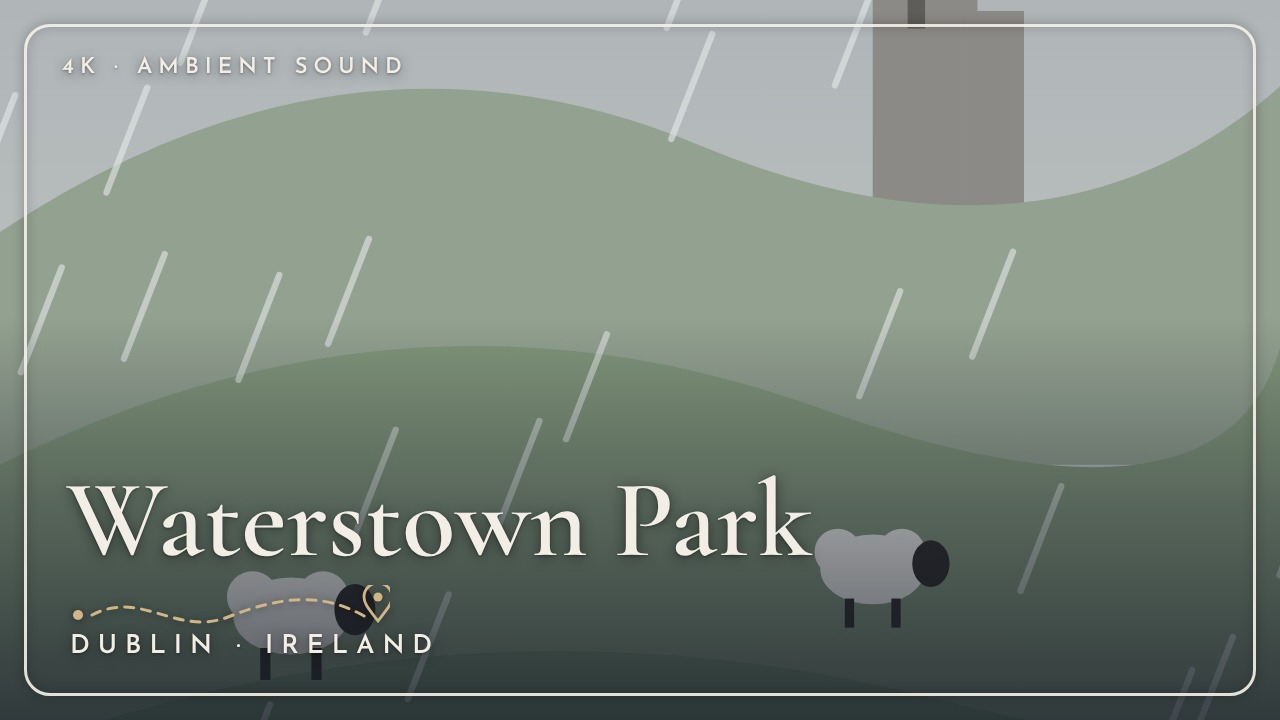
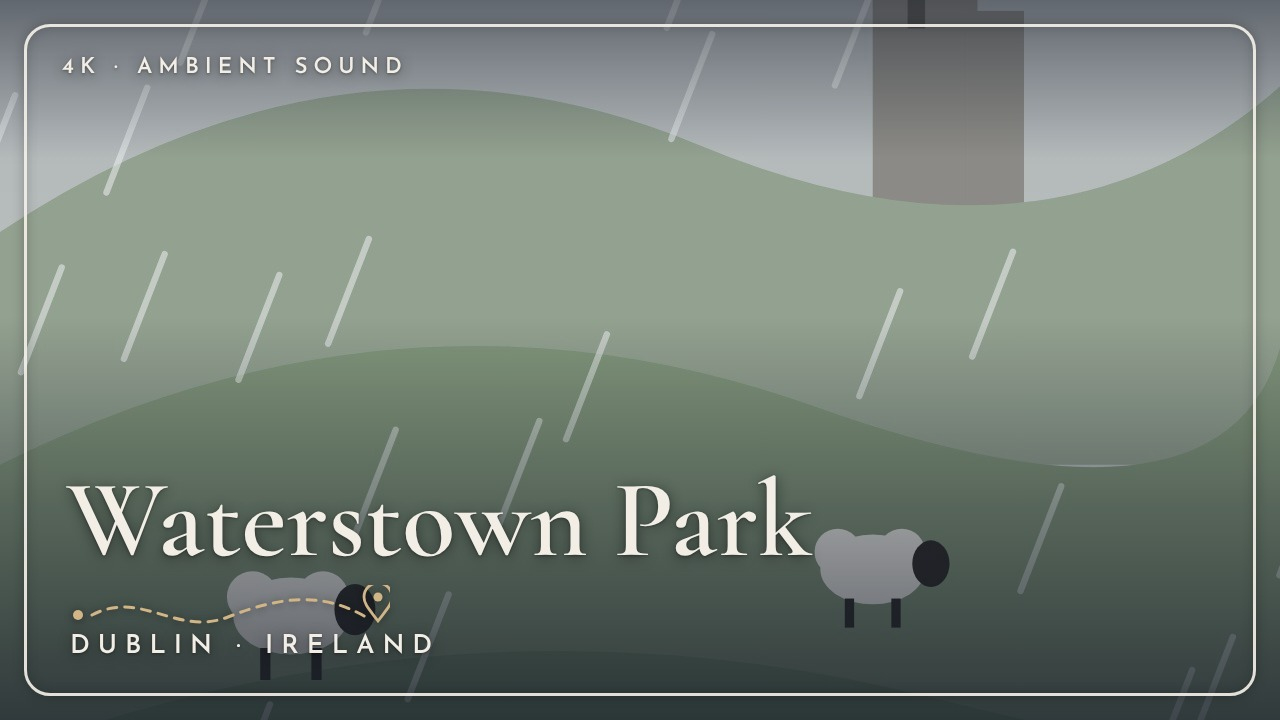
Elita: miniatura con degradado suave arriba para que la etiqueta se lea sobre cielos claros
Claude-Session: https://claude.ai/code/session_01QcE6ahXjMRX9nuFAhFcmJW

Changed region(s): [[0.0, 0.0, 1.0, 0.1528]]

diff --git a/elita-aventuras/scripts/miniatura.py b/elita-aventuras/scripts/miniatura.py
@@ -21,7 +21,7 @@ def html(foto=None,titulo='',lugar='',etiqueta='',texto=True):
 html,body{{margin:0;background:transparent}}
 #m{{position:relative;width:1280px;height:720px;overflow:hidden;font-family:CG}}
 #foto{{position:absolute;inset:0;background-size:cover;background-position:center}}
-#deg{{position:absolute;inset:0;background:linear-gradient(to top,rgba(20,26,38,.74) 0%,rgba(20,26,38,.38) 30%,rgba(20,26,38,0) 56%)}}
+#deg{{position:absolute;inset:0;background:linear-gradient(to bottom,rgba(20,26,38,.5) 0%,rgba(20,26,38,0) 22%),linear-gradient(to top,rgba(20,26,38,.74) 0%,rgba(20,26,38,.38) 30%,rgba(20,26,38,0) 56%)}}
 #marco{{position:absolute;inset:24px;border:3px solid rgba(242,238,230,.92);border-radius:26px;box-shadow:0 0 12px rgba(0,0,0,.25),inset 0 0 12px rgba(0,0,0,.18)}}
 #et{{position:absolute;left:62px;top:56px;font-family:JS;font-weight:600;font-size:22px;letter-spacing:6px;color:{CREMA};text-shadow:{SOMBRA}}}
 #tx{{position:absolute;left:66px;right:66px;bottom:60px;color:{CREMA}}}

diff --git a/elita-aventuras/CONTEXTO.md b/elita-aventuras/CONTEXTO.md
@@ -55,7 +55,7 @@ No elegida: "Elita-Logo-camino-v2" (curva más marcada y opción sin punto ni pi
 - ~~Marca de agua~~ **Elegida: "ADVENTURES" + camino punteado** (`entregables/Elita-Marca-de-agua/elegida-adventures-camino/`, cuadros completos transparentes 1080p y 4K, opacidad 80 % incluida: se arrastran a la pista de arriba en Premiere sin escalar). Encaja con la regla de no repetir "Elita" en todos lados. Las otras (Elita + camino, monograma) quedan como alternativas.
 - Opening: **aprobado en crema**; también va en noche para tomas de noche, lluvia o bosque. Final en 4K a 60 fps (`entregables/Elita-Video/4K-60fps/`). Ivan graba en 4K 60 con iPhone 15 y quizás pronto Osmo Pocket (la cámara lenta a 240 fps se interpreta en la secuencia de 60).
 - Closing (`video.py`, 24 s, un solo archivo para poner al final del video): frase de despedida "Thanks for walking with me." / "Gracias por caminar conmigo." + "— Elita" (0:00–0:04), y desde 0:04,2 la pantalla final de 20 s: "Elita" + camino + ADVENTURES y el círculo de suscripción a la izquierda; a la derecha 2 cuadros punteados con etiqueta PREVIOUS/NEXT (ANTERIOR/SIGUIENTE) para los videos anterior y siguiente, huecos de 680×383 en (1140,150) y (1140,620). `_guias.png` muestra dónde poner los elementos en YouTube Studio. (Se descartó el outro con el logo que se desarma.)
-- Marco de miniatura (`miniatura.py`, `entregables/Elita-Miniatura/`): 1280×720, foto de fondo, borde crema redondeado inset 24 px (como las ventanas del logo), degradado oscuro abajo, etiqueta arriba "4K · AMBIENT SOUND" / "4K · SONIDO AMBIENTE" (Josefin), título en Cormorant SemiBold crema (se achica solo y equilibra las líneas), camino punteado arena `#D2B587` con pin y lugar en Josefin mayúsculas espaciadas. Sombra suave en todo el texto. Sale en JPG (YouTube acepta hasta 2 MB). Sin "Elita" en la miniatura (regla de no repetir el nombre).
+- Marco de miniatura (`miniatura.py`, `entregables/Elita-Miniatura/`): 1280×720, foto de fondo, borde crema redondeado inset 24 px (como las ventanas del logo), degradado oscuro abajo (y uno suave arriba para la etiqueta; probado con una foto real de un parque con cielo claro), etiqueta arriba "4K · AMBIENT SOUND" / "4K · SONIDO AMBIENTE" (Josefin), título en Cormorant SemiBold crema (se achica solo y equilibra las líneas), camino punteado arena `#D2B587` con pin y lugar en Josefin mayúsculas espaciadas. Sombra suave en todo el texto. Sale en JPG (YouTube acepta hasta 2 MB). Sin "Elita" en la miniatura (regla de no repetir el nombre).
 - (Intro/outro: ver opening y pantalla final.)
 
 ## Notas de los scripts
